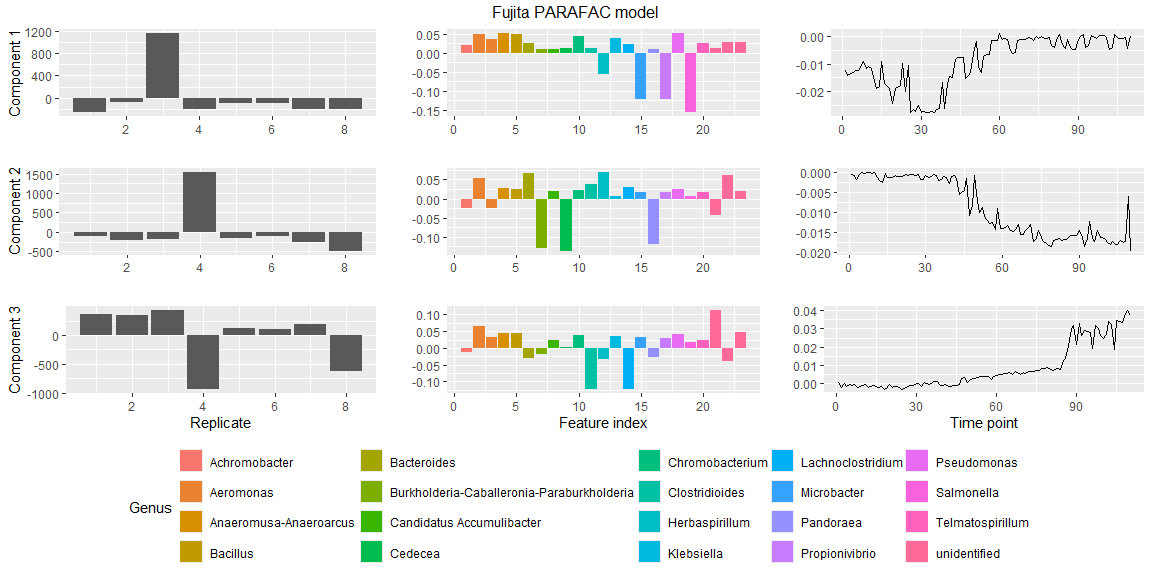
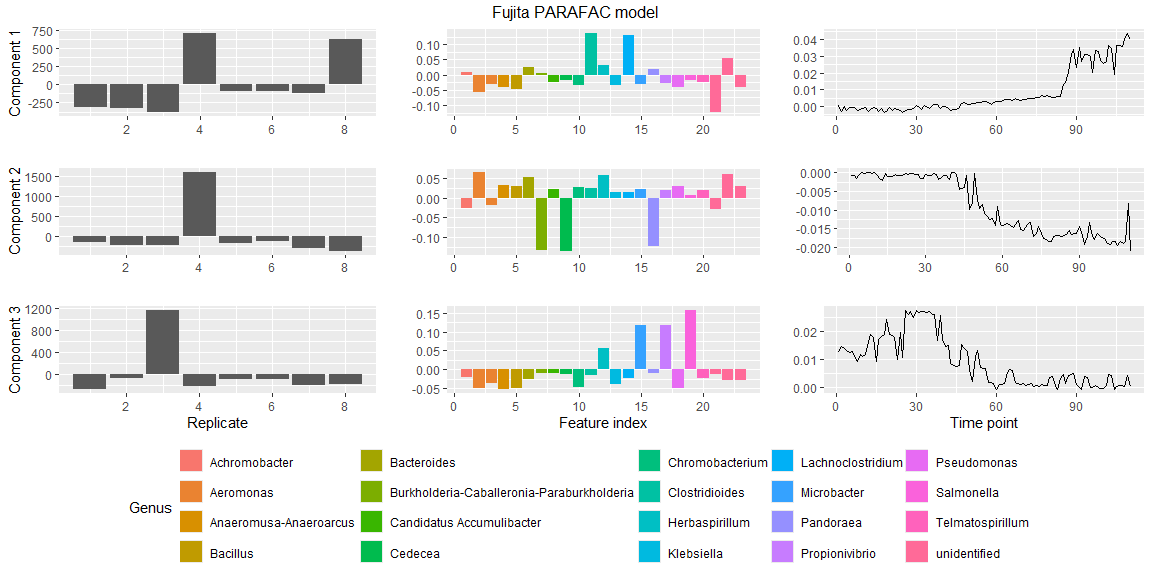
added phyloseq support

diff --git a/README.md b/README.md
@@ -74,13 +74,13 @@ Please use the following citation when using this package:
 
 ``` r
 library(parafac4microbiome)
-set.seed(0) # for reproducibility
+set.seed(456) # for reproducibility
 
 # Process the data cube
 processedFujita = processDataCube(Fujita2023, sparsityThreshold=0.99, CLR=TRUE, centerMode=1, scaleMode=2)
 
 # Make a PARAFAC model
-model = parafac(processedFujita$data, nfac=3, verbose=FALSE)
+model = parafac(processedFujita$data, nfac=3, nstart=10, output="best", verbose=FALSE)
 
 # Plot the PARAFAC model using some metadata
 plotPARAFACmodel(model$Fac, processedFujita,
